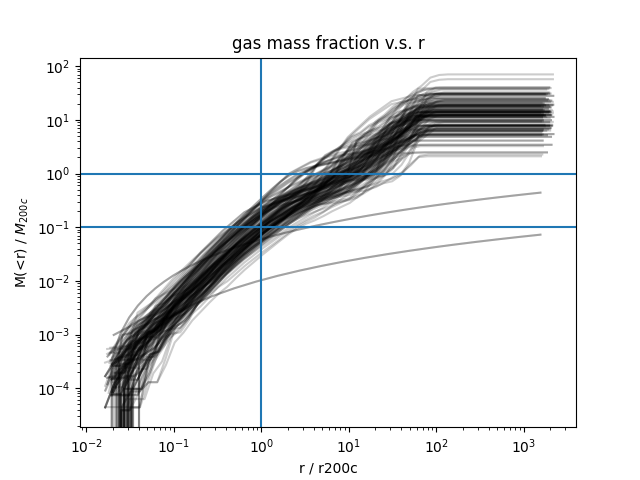
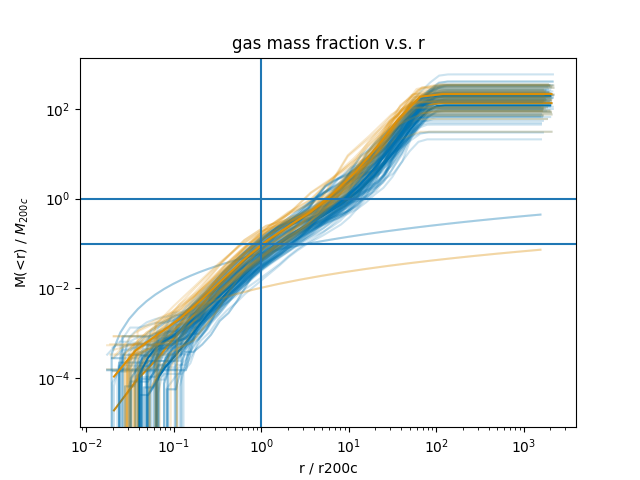
plot_gasmass_concentration.py: change linestyles to distinguish different binning and excl or incl recently heated particles

diff --git a/bin/plot_gasmass_concentration.py b/bin/plot_gasmass_concentration.py
@@ -7,13 +7,13 @@ from glob import glob
 
 # define parameters
 massfilter = [13.0, 13.5]
-props = ['part_masses', 'part_temperatures', 'nH_dens', 'cts', 'abun_oxygen', 'abun_iron', 'fe17', 'o7f', 'o8']
+props = ['part_masses', 'part_temperatures', 'part_dens', 'cts']
 reds = 0
 
 # define plotting parameters
 import seaborn as sns
 cb = sns.color_palette("colorblind").as_hex()
-
+lstyles = ['solid', 'dotted']
 # Define the radius bins
 xbins_mean = 10**np.arange(-2,3.25,0.25)  # Mpc for 0.25 dex
 xbins_med = 10**np.arange(-2,3.1,0.1)  # Mpc for 0.1 dex
@@ -39,23 +39,28 @@ for mf in massfilter:
             soap_ids = np.array(catalogue_soap["VR/ID"][()])
             m200c_sp = catalogue_soap["SO/200_crit/TotalMass"][()]
             r200c_sp = catalogue_soap["SO/200_crit/SORadius"][()]
+            print(catalogue_soap["SO/200_crit"].keys())
         m200c = m200c_sp[np.isin(soap_ids, halo_ids)]
         r200c = r200c_sp[np.isin(soap_ids, halo_ids)]
         # Plot part_mass in r versus M200c
         if prop == 'part_masses':
             fig, ax = plt.subplots()
-            for type in ['excl', 'incl']:
+            for k, type in enumerate(['excl', 'incl']):
+                lstyle = lstyles[k]
                 for i, binning in enumerate(xbins.keys()):
-                    for shape in ['cyl', 'sph']:
+                    for shape in ['sph']:
                         prof = pd.read_csv(f'{prof_path}/{prop}_{binning}_{type}_{shape}.csv')
-                        prof = np.array(prof)[:, :1022]
+                        prof = np.array(prof)[:, :len(m200c)]
                         sum_prof = np.cumsum(prof, axis=0)
                         for k in range(len(sum_prof)):
-                            plt.plot(xbins[binning]/r200c[k], sum_prof[:,k]/m200c[k]*1e10, c = cb[i], label = f'{shape}_{binning}_{type}', alpha = 0.2)
+                            if k==0:
+                                plt.plot(xbins[binning][0]/r200c[k], sum_prof[:,k]/m200c[k]*1e10, c = cb[i], label = f'{shape}_{binning}_{type}', alpha = 0.2, linestyle = lstyle)
+                            else:
+                                plt.plot(xbins[binning][0]/r200c[k], sum_prof[:,k]/m200c[k]*1e10, c = cb[i], linestyle = lstyle)
                         if binning == '010dex':
-                            plt.plot(xbins[binning]/r200c[k], np.nanmedian(sum_prof/m200c*1e10, axis=1), c = cb[i], label = f'{shape}_{binning}_{xbins[binning][1]}_{type}')
+                            plt.plot(xbins[binning][0]/r200c[k], np.nanmedian(sum_prof/m200c*1e10, axis=1), c = cb[i], label = f'{shape}_{binning}_{xbins[binning][1]}_{type}', linestyle = lstyle, linewidth = 4, alpha = 0.6)
                         elif binning == '025dex':
-                            plt.plot(xbins[binning]/r200c[k], np.nanmean(sum_prof/m200c*1e10, axis=1), c = cb[i], label = f'{shape}_{binning}_{xbins[binning][1]}_{type}')
+                            plt.plot(xbins[binning][0]/r200c[k], np.nanmean(sum_prof/m200c*1e10, axis=1), c = cb[i], label = f'{shape}_{binning}_{xbins[binning][1]}_{type}', linestyle = lstyle, linewidth = 3, alpha = 0.6)
                         else: 
                             raise ValueError('Binning type does not exist!')
             plt.axvline(1)
@@ -66,29 +71,35 @@ for mf in massfilter:
             plt.xscale('log')
             plt.yscale('log')
             plt.title(f'gas mass fraction v.s. r')
-            plt.savefig(f'{prop}_{mf}_gas-mass-frac_vs_r.png')
+            plt.legend()
+            plt.savefig(f'{savepath}/{prop}_{mf}_gas-mass-frac_vs_r.png')
             print('plot has been created!')
             plt.close()
         # plot other properties in radii bins
         else:
             fig, ax = plt.subplots()
-            for type in ['excl', 'incl']:
+            for k, type in enumerate(['excl', 'incl']):
+                lstyle = lstyles[k]
                 for i, binning in enumerate(xbins.keys()):
-                    for shape in ['cyl', 'sph']:
+                    for shape in ['sph']:
                         prof = pd.read_csv(f'{prof_path}/{prop}_{binning}_{type}_{shape}.csv')
-                        prof = np.array(prof)[:, :1022]
+                        prof = np.array(prof)[:, :len(m200c)]
                         for k in range(len(sum_prof)):
-                            plt.plot(xbins[binning]/r200c[k], sum_prof[:,k], c = cb[i], label = f'{shape}_{binning}_{type}', alpha = 0.2)
+                            if k == 0:
+                                plt.plot(xbins[binning][0]/r200c[k], prof[:,k], c = cb[i], label = f'{shape}_{binning}_{type}', alpha = 0.2, linestyle = lstyle)
+                            else:
+                                plt.plot(xbins[binning][0]/r200c[k], prof[:,k], c = cb[i], alpha = 0.2, linestyle = lstyle)
                         if binning == '010dex':
-                            plt.plot(xbins[binning]/r200c[k], np.nanmedian(sum_prof/m200c*1e10, axis=1), c = cb[i], label = f'{shape}_{binning}_{xbins[binning][1]}_{type}')
+                            plt.plot(xbins[binning][0]/r200c[k], np.nanmedian(prof/m200c*1e10, axis=1), c = cb[i], label = f'{shape}_{binning}_{xbins[binning][1]}_{type}', linewidth = 4, linestyle = lstyle, alpha = 0.6)
                         elif binning == '025dex':
-                            plt.plot(xbins[binning]/r200c[k], np.nanmean(sum_prof/m200c*1e10, axis=1), c = cb[i], label = f'{shape}_{binning}_{xbins[binning][1]}_{type}')
+                            plt.plot(xbins[binning][0]/r200c[k], np.nanmean(prof/m200c*1e10, axis=1), c = cb[i], label = f'{shape}_{binning}_{xbins[binning][1]}_{type}', linewidth = 3, linestyle = lstyle, alpha = 0.6)
                         else: 
                             raise ValueError('Binning type does not exist!')
             plt.xlabel('r / $r_{200c}$')
-            plt.ylabel('cts')
+            plt.ylabel(f'{prop}')
             plt.yscale('log')
             plt.xscale('log')
-            plt.title(f'cts in every radial bin')
+            plt.title(f'{prop} in every radial bin')
+            plt.legend()
             plt.savefig(f'{savepath}/{prop}_{mf}_cts_vs_r.png')
             plt.close()

diff --git a/bin/func_conversion.py b/bin/func_conversion.py
@@ -1,0 +1,8 @@
+import numpy as np
+from unyt import mp
+from unyt.constants import G, k_B, critical_density
+
+
+def cal_T200c(M200c, rho_c):
+    mu = 0.59
+    return mu * mp/ (3 * k_B) * G * np.power(M200c, 2/3) * np.power(200 * critical_density, 1/3)
